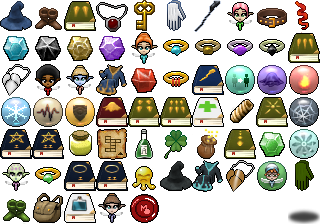
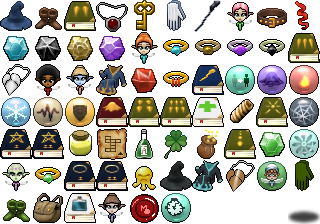
ADD New Spell: Time Stop

Changed region(s): [[0.5, 0.8438, 0.5938, 1.0]]

diff --git a/src/WitchBlastGame.cpp b/src/WitchBlastGame.cpp
@@ -410,6 +410,7 @@ WitchBlastGame::WitchBlastGame()
     "media/sound/bogeyman_vortex_00.ogg", "media/sound/bogeyman_vortex_01.ogg",
     "media/sound/barrel_hit.ogg",     "media/sound/barrel_smash.ogg",
     "media/sound/secret.ogg",         "media/sound/scroll.ogg",
+    "media/sound/tic_tac.ogg",
   };
 
   // AA in fullscreen
@@ -464,6 +465,7 @@ WitchBlastGame::WitchBlastGame()
   titleSprite.setOrigin(titleSprite.getTextureRect().width / 2, titleSprite.getTextureRect().height / 2);
 
   scoreState = ScoreOK;
+  loopCounter = 0;
 
   loadGameData();
   loadHiScores();
@@ -570,11 +572,26 @@ void WitchBlastGame::onUpdate()
   {
     if (isPlayerAlive) player->setItemToBuy(NULL);
 
-    EntityManager::getInstance().animate(deltaTime);
-    if (isPressing(KeyTimeControl, false))
+    // time stop
+    if (player->isSpecialStateActive(SpecialStateTime))
+    {
+      if (loopCounter == 0)
+        EntityManager::getInstance().animate(deltaTime);
+      else
+        player->animate(deltaTime);
+
+      loopCounter++;
+      if (loopCounter > 3) loopCounter = 0;
+      SoundManager::getInstance().playSound(SOUND_CLOCK, false);
+    }
+    else
     {
       EntityManager::getInstance().animate(deltaTime);
-      SoundManager::getInstance().playSound(SOUND_VIB, false);
+      if (isPressing(KeyTimeControl, false))
+      {
+        EntityManager::getInstance().animate(deltaTime);
+        SoundManager::getInstance().playSound(SOUND_VIB, false);
+      }
     }
 
     if (isPlayerAlive) gameTime += deltaTime;
@@ -2010,6 +2027,16 @@ void WitchBlastGame::renderRunningGame()
   sf::RectangleShape rectangle(sf::Vector2f(200, 25));
 
   // effects
+  if (player->isSpecialStateActive(SpecialStateTime))
+  {
+    sf::RectangleShape whiteLine = sf::RectangleShape(sf::Vector2f(GAME_WIDTH, 2));
+    whiteLine.setFillColor(sf::Color(255, 255, 255, 32));
+    for (int i = 0; i < 8; i++)
+    {
+      whiteLine.setPosition(xOffset, yOffset + rand() % GAME_HEIGHT);
+      app->draw(whiteLine);
+    }
+  }
   if (isPressing(KeyTimeControl, false) && gameState == gameStatePlaying)
   {
     // effect
@@ -4923,6 +4950,9 @@ enumItemType WitchBlastGame::getItemSpell()
       case SpellFairy:
         item = ItemSpellFairy;
         break;
+      case SpellTime:
+        item = ItemSpellTime;
+        break;
       }
       ok = !isItemLocked(item);
     }
@@ -5129,6 +5159,16 @@ void WitchBlastGame::playMusic(musicEnum musicChoice)
 
   if (ok)
     music.play();
+}
+
+void WitchBlastGame::pauseMusic()
+{
+  music.pause();
+}
+
+void WitchBlastGame::resumeMusic()
+{
+  music.play();
 }
 
 void WitchBlastGame::updateMusicVolume()
@@ -6307,6 +6347,13 @@ void WitchBlastGame::renderPlayer(float x, float y,
     sprite.setPosition(x + 20, y);
     sprite.setTexture(*ImageManager::getInstance().getImage(IMAGE_FAIRY));
     sprite.setTextureRect(sf::IntRect( 0, 288, 48, 60));
+    app->draw(sprite);
+  }
+  if (equip[EQUIP_FAIRY_STONE])
+  {
+    sprite.setPosition(x - 5, y + 15);
+    sprite.setTexture(*ImageManager::getInstance().getImage(IMAGE_FAIRY));
+    sprite.setTextureRect(sf::IntRect( 0, 360, 48, 60));
     app->draw(sprite);
   }
 

diff --git a/src/Items.h b/src/Items.h
@@ -44,6 +44,7 @@ enum enumCastSpell
   SpellWeb,
   SpellFlower,
   SpellFairy,
+  SpellTime,
 
   SpellNone
 };
@@ -167,6 +168,7 @@ enum enumItemType
   ItemBookAlchemy,
   ItemFairyStone,
   ItemMerchant,
+  ItemSpellTime,
 
   NUMBER_ITEMS
 };
@@ -586,6 +588,10 @@ const itemStuct items[NUMBER_ITEMS] =
     ItemMerchant, "item_merchant", "item_merchant_desc",
     25, true, FamiliarNone, true, true, true, 1, RarityRare, false, -1, ShotTypeStandard, SpellNone, false
   },
+  {
+    ItemSpellTime, "item_spell_time", "item_spell_time_desc",
+    60, true, FamiliarNone, false, false, true, 1, RarityCommon, false, -1, ShotTypeStandard, SpellTime, false
+  },
 };
 
 /** Item equipment type enum
@@ -657,6 +663,7 @@ enum item_equip_enum {
   EQUIP_BOOK_ALCHEMY,
   EQUIP_FAIRY_STONE,
   EQUIP_MERCHANT,
+  EQUIP_SPELL_TIME,
 
   NUMBER_EQUIP_ITEMS
   };
@@ -731,6 +738,7 @@ const std::vector<item_equip_enum> sortedEquipement =
   EQUIP_SPELL_WEB,
   EQUIP_SPELL_FLOWER,
   EQUIP_SPELL_FAIRY,
+  EQUIP_SPELL_TIME,
 
   // others
   EQUIP_MERCHANT,
@@ -788,6 +796,7 @@ const std::vector<item_equip_enum> scoreEquipement =
   EQUIP_SPELL_WEB,
   EQUIP_SPELL_FLOWER,
   EQUIP_SPELL_FAIRY,
+  EQUIP_SPELL_TIME,
 
   // others
   EQUIP_MERCHANT,

diff --git a/src/PlayerEntity.cpp b/src/PlayerEntity.cpp
@@ -3214,6 +3214,11 @@ void PlayerEntity::setActiveSpell(enumCastSpell spell, bool fromSaveInFight)
     activeSpell.frame = ItemSpellFairy - FirstEquipItem;
     break;
 
+  case SpellTime:
+    activeSpell.delayMax = 70.0f;
+    activeSpell.frame = ItemSpellTime - FirstEquipItem;
+    break;
+
   case SpellNone:
     break;
   }
@@ -3261,6 +3266,9 @@ void PlayerEntity::castSpell()
       break;
     case SpellFairy:
       castTransmuteFairy();
+      break;
+    case SpellTime:
+      castTimeStop();
       break;
 
     case SpellNone:
@@ -3484,4 +3492,11 @@ void PlayerEntity::castTransmuteFairy()
       generateStar(sf::Color(200, 200, 255, 255));
     }
   }
+}
+
+void PlayerEntity::castTimeStop()
+{
+  specialState[SpecialStateTime].active = true;
+  specialState[SpecialStateTime].timer = equip[EQUIP_BOOK_MAGIC_II] ? 7 : 5;
+  game().pauseMusic();
 }

diff --git a/src/BaseCreatureEntity.h b/src/BaseCreatureEntity.h
@@ -120,8 +120,8 @@ enum enumSpecialState
   SpecialStateWeakness,
   SpecialStateStrength,
   SpecialStateRage,
-
   SpecialStateConfused,
+  SpecialStateTime,
 
   DivineStateProtection,
   DivineStateSpeed,
@@ -169,6 +169,7 @@ const std::string specialStateToLabel[NB_SPECIAL_STATES] =
   "state_strength",
   "state_rage",
   "state_confusion",
+  "state_time",
 
   "state_div_protection",
   "state_div_speed",
@@ -183,6 +184,7 @@ const sf::Color specialStateToColor[NB_SPECIAL_STATES] =
   sf::Color::White,
   sf::Color::Green,
   sf::Color::Red,
+  sf::Color::White,
   sf::Color::White,
   sf::Color::White,
   sf::Color::Red,

diff --git a/src/WitchBlastGame.h b/src/WitchBlastGame.h
@@ -472,6 +472,9 @@ public:
    */
   bool isAdvancedLevel();
 
+  void pauseMusic();
+  void resumeMusic();
+
 protected:
   /*!
    *  \brief Rendering method
@@ -525,6 +528,7 @@ private:
   bool isPlayerAlive;         /*!< Dying sets this bool to false (trigger the ending music) */
   bool monsterArray[MAP_WIDTH][MAP_HEIGHT]; /*!<  use to remember if a case has a monster in monster spawn */
   int killedEnemies[NB_ENEMY];
+  int loopCounter;
 
   // game objects
   PlayerEntity* player;             /*!< Pointer to the player entity */

diff --git a/src/BaseCreatureEntity.cpp b/src/BaseCreatureEntity.cpp
@@ -109,6 +109,8 @@ float BaseCreatureEntity::animateStates(float delay)
       {
         setSpecialState((enumSpecialState)i, false, 0.0f, 0.0f, 0.0f);
         game().getPlayer()->computePlayer();
+
+        if (i == SpecialStateTime) game().resumeMusic();
       }
     }
     else if (specialState[i].waitUnclear && !game().getCurrentMap()->isCleared())

diff --git a/src/PlayerEntity.h b/src/PlayerEntity.h
@@ -609,6 +609,7 @@ class PlayerEntity : public BaseCreatureEntity
     void castWeb();
     void castSummonsFlower();
     void castTransmuteFairy();
+    void castTimeStop();
 
     ItemEntity* itemToBuy;
 

diff --git a/src/Constants.h b/src/Constants.h
@@ -300,6 +300,7 @@ enum sound_resources {
   SOUND_BARREL_SMASH,
   SOUND_SECRET,
   SOUND_SCROLL,
+  SOUND_CLOCK,
 };
 
 enum corpses_ressources{
